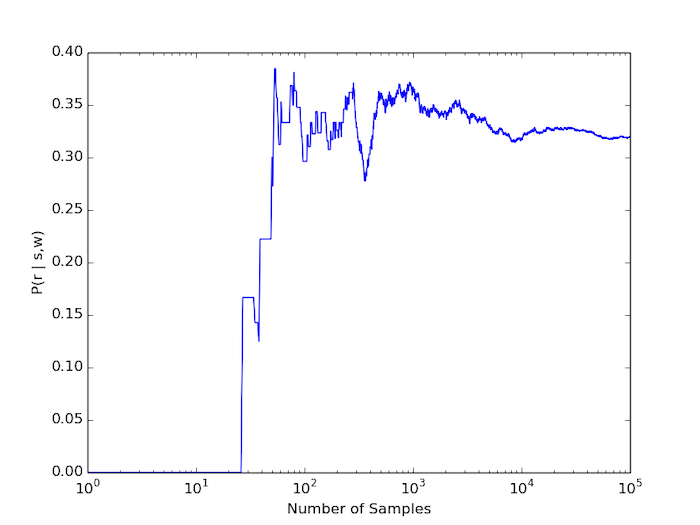
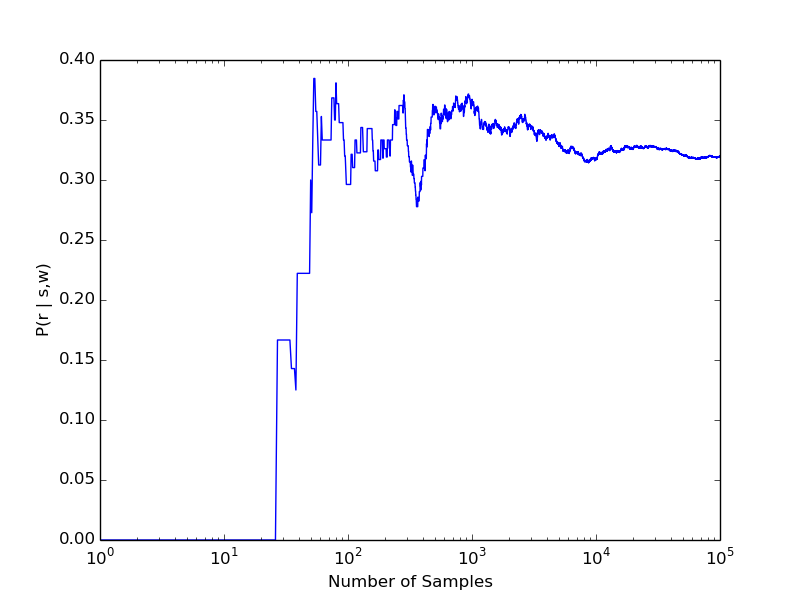
feat: complete Q2

diff --git a/main.py b/main.py
@@ -1,12 +1,14 @@
 
 import sys
+import math
 import csv
 import matplotlib.pyplot as plt
 
 if __name__ == '__main__':
     question = sys.argv[1]
 
-    if question == 'a':
+    if question == '2':
+        # Question 2.a
         file = open('rs_1.csv')
         csv_reader = csv.reader(file)
 
@@ -28,11 +30,44 @@ if __name__ == '__main__':
             result.append(temp)
 
         print('P(r | s,w) = {0}'.format(result[-1]))
+        print('rain: {0}'.format(rain))
+        print('no rain: {0}'.format(no_rain))
+        print('total: {0}'.format(rain+no_rain))
         plt.plot(result)
         plt.xlabel('Number of Samples')
         plt.ylabel('P(r | s,w)')
         plt.xscale('log')
-        plt.savefig('rain.png')
+        plt.ylim([-0.2, 0.70])
+        plt.savefig('a.png')
+
+        # Question 2.b
+        result_plus_epsilon = []
+        result_minus_epsilon = []
+        rain = no_rain = 0.0
+        temp1 = temp2 = 0.0
+        n = 0.0
+
+        for i in range(1, len(rows)):
+            if rows[i] == '1':
+                rain += 1.0
+                n += 1.0
+                epsilon = math.sqrt(-(math.log(0.05/2))/(2*n))
+                temp1 = (rain / (rain + no_rain)) + epsilon
+                temp2 = (rain / (rain + no_rain)) - epsilon
+            elif rows[i] == '2':
+                no_rain += 1.0
+                n += 1.0
+                epsilon = math.sqrt(-(math.log(0.05 / 2)) / (2 * n))
+                temp1 = (rain / (rain + no_rain)) + epsilon
+                temp2 = (rain / (rain + no_rain)) - epsilon
+            result_plus_epsilon.append(temp1)
+            result_minus_epsilon.append(temp2)
+
+        plt.plot(result_plus_epsilon)
+        plt.plot(result_minus_epsilon)
+        print(len(result_plus_epsilon))
+        print(len(result_minus_epsilon))
+        plt.savefig('b.png')
 
     else:
         print('Invalid question number')
